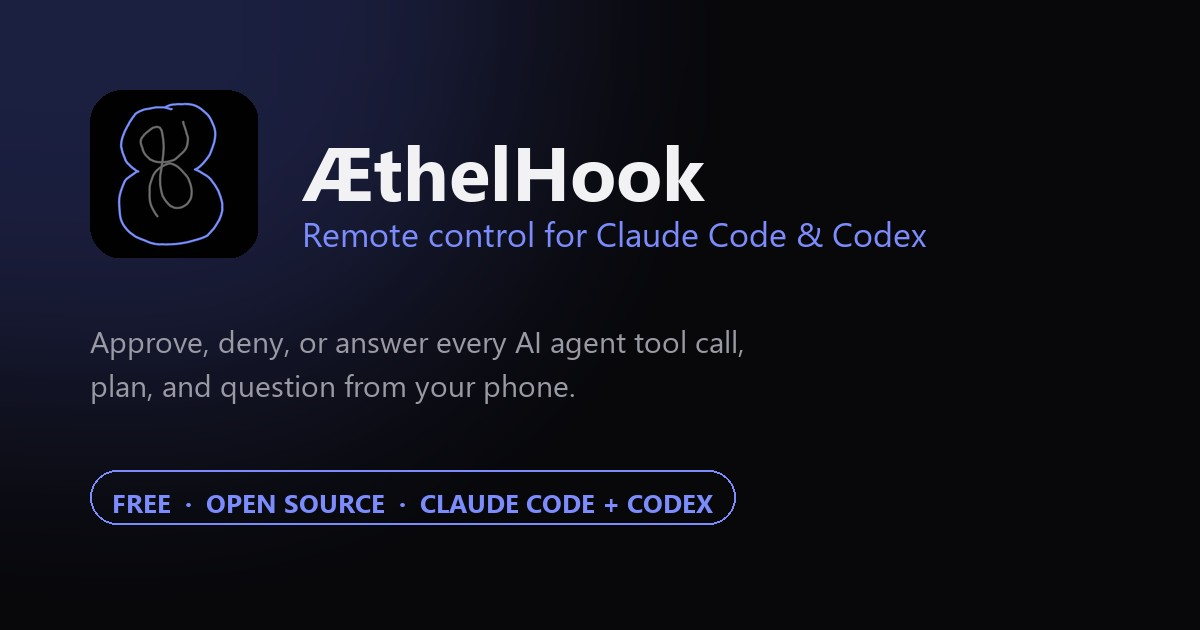
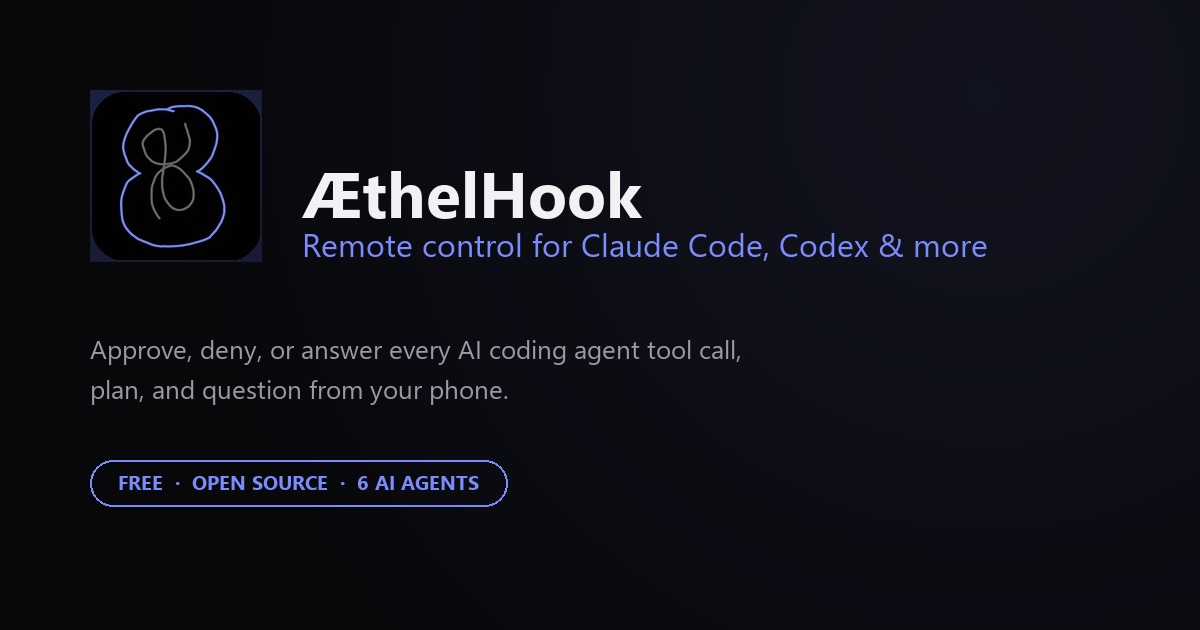
Cover Gemini CLI, GitHub Copilot CLI, and Devin CLI on the site
AethelHook grew from 3 to 6 supported agents (Claude Code, Codex,
OpenCode, Gemini CLI, GitHub Copilot CLI, Devin CLI) since the site
was last updated. Updates the homepage (Hero, Features, Setup),
title/meta/OG/Twitter tags and the JSON-LD description, the OG image,
the Guides index, and the main setup guide - including new per-agent
subsections for Gemini CLI (npm install, folder trust) and Devin CLI
(standalone terminal CLI install and one-time interactive login,
explicitly distinguished from the Devin IDE, which has no hook
mechanism at all). Notes GitHub Copilot CLI as approval-gate only,
with no Session Access. Also fixes two stale cross-links in the two
general guides that still said "Claude Code and Codex" instead of
matching the setup guide's actual title.

The phone dashboard screenshot in the Demo section is left as-is -
it predates both this agent lineup and the floating-glass UI redesign,
so its own alt text/caption already only claims what it actually
shows (Claude Code, Codex, OpenCode toggles) rather than being
updated to overclaim.

Changed region(s): [[0.0, 0.0, 0.8325, 0.6333], [0.0617, 0.7238, 0.6167, 0.8444]]

diff --git a/src/pages/GuideApprove.jsx b/src/pages/GuideApprove.jsx
@@ -8,20 +8,21 @@ export default function GuideApprove() {
       <main>
         <article className="article">
           <p className="kicker">Guide</p>
-          <h1>How to approve Claude Code, Codex, and OpenCode from your phone</h1>
+          <h1>How to approve Claude Code, Codex, and four other AI agents from your phone</h1>
           <p className="article-lead">
             A step-by-step walkthrough of setting up remote control for Claude Code,
-            Codex, and OpenCode with ÆthelHook, so tool calls, plan reviews, and
-            questions can be answered from your phone instead of your IDE. Codex and
-            OpenCode each need one small extra step beyond the base install, covered
-            in full below.
+            Codex, OpenCode, Gemini CLI, GitHub Copilot CLI, and Devin CLI with
+            ÆthelHook, so tool calls, plan reviews, and questions can be answered from
+            your phone instead of your IDE. Most of these agents need one small extra
+            step beyond the base install, covered in full below.
           </p>
 
           <h2>What you need</h2>
           <ul>
             <li>
               A Windows PC running at least one of: Claude Code (CLI or VS Code
-              extension), Codex (CLI or IDE), or OpenCode.
+              extension), Codex (CLI or IDE), OpenCode, Gemini CLI, GitHub Copilot CLI,
+              or Devin's standalone terminal CLI.
             </li>
             <li>An Android phone.</li>
             <li>No account and no subscription, both installs are free.</li>
@@ -86,11 +87,11 @@ export default function GuideApprove() {
             tab.
           </p>
 
-          <h2>6. Extra step for Codex or OpenCode</h2>
+          <h2>6. Extra step for Codex, OpenCode, Gemini CLI, or Devin CLI</h2>
           <p>
-            Claude Code needs nothing beyond the steps above, its hooks are trusted
-            automatically. The other two agents each need one more small step
-            before ÆthelHook can see their tool calls.
+            Claude Code and GitHub Copilot CLI need nothing beyond the steps above,
+            their hooks are trusted automatically. The other four agents each need one
+            more small step before ÆthelHook can see their tool calls.
           </p>
 
           <h3>Codex: trust the hooks</h3>
@@ -132,10 +133,53 @@ export default function GuideApprove() {
             config folder to exist, not a specific install method.
           </p>
 
+          <h3>Gemini CLI: install with npm, then trust the folder</h3>
+          <p>
+            Install{' '}
+            <a href="https://nodejs.org/" target="_blank" rel="noopener noreferrer">
+              Node.js
+            </a>{' '}
+            if you do not already have it, then run:
+          </p>
+          <pre>
+            <code>npm install -g @google/gemini-cli</code>
+          </pre>
+          <p>
+            Gemini CLI refuses to run tools, and refuses to fire any hook at all, in a
+            project folder it does not trust yet, a Gemini CLI safety feature, not
+            something ÆthelHook can skip on your behalf. The first time you run{' '}
+            <code>gemini</code> interactively in a project, accept its trust prompt if
+            one appears. Session Access, ÆthelHook's phone-to-PC prompt feature, trusts
+            the folder automatically before every headless run, so this step only
+            matters for using Gemini CLI yourself in your own terminal.
+          </p>
+
+          <h3>Devin CLI: the standalone terminal CLI, not the Devin IDE</h3>
+          <p>
+            This is Cognition's separate <code>devin</code> terminal CLI, not the Devin
+            IDE (a rebranded Windsurf editor). The IDE never fires hooks at all, so
+            ÆthelHook can only gate the standalone CLI. Install it on Windows with:
+          </p>
+          <pre>
+            <code>irm https://static.devin.ai/cli/setup.ps1 | iex</code>
+          </pre>
+          <p>
+            Then, in a real terminal window, since this step reads console input
+            directly and cannot be scripted or piped, sign in once:
+          </p>
+          <pre>
+            <code>{`devin auth login
+devin setup`}</code>
+          </pre>
+          <p>
+            After that one-time login, every <code>devin</code> tool call routes to
+            your phone the same as the other agents.
+          </p>
+
           <h2>7. You are done</h2>
           <p>
             From here, every tool call, plan review, and clarifying question from
-            whichever of the three agents you use routes to your phone. You can allow
+            whichever of the six agents you use routes to your phone. You can allow
             once, always allow for that project, always allow everywhere, deny, or
             deny with a reason fed back to the agent, all from the notification.
           </p>
@@ -144,7 +188,9 @@ export default function GuideApprove() {
             Session Access, ÆthelHook's other mode, works the other direction: send a
             prompt from your phone and kick off a headless run on your PC. Useful for
             a quick fix or a forgotten follow-up task while you are away from your
-            desk.
+            desk. It works for every agent except GitHub Copilot CLI, which is
+            approval-gate only, its headless auth needs Windows Credential Manager,
+            which the background service cannot reach.
           </div>
 
           <p>

diff --git a/index.html b/index.html
@@ -3,20 +3,20 @@
 <head>
 <meta charset="UTF-8" />
 <meta name="viewport" content="width=device-width, initial-scale=1.0" />
-<title>ÆthelHook - Remote Control for Claude Code, Codex, and OpenCode</title>
-<meta name="description" content="Free, open source remote control and approval gateway for Claude Code, Codex, and OpenCode. Approve tool calls, review plans, and answer questions from your phone.">
+<title>ÆthelHook - Remote Control for Claude Code, Codex & More AI Agents</title>
+<meta name="description" content="Free, open source remote control and approval gateway for Claude Code, Codex, OpenCode, Gemini CLI, GitHub Copilot CLI, and Devin CLI. Approve tool calls, review plans, and answer questions from your phone.">
 <link rel="canonical" href="https://aethelst8.com/">
-<meta property="og:title" content="ÆthelHook - Remote Control for Claude Code, Codex, and OpenCode">
-<meta property="og:description" content="Approve, deny, or answer every AI coding agent tool call, plan, and question remotely from your phone. Free and open source.">
+<meta property="og:title" content="ÆthelHook - Remote Control for Claude Code, Codex & More AI Agents">
+<meta property="og:description" content="Approve, deny, or answer every AI coding agent tool call, plan, and question remotely from your phone. Six agents supported. Free and open source.">
 <meta property="og:type" content="website">
 <meta property="og:url" content="https://aethelst8.com">
 <meta property="og:image" content="https://aethelst8.com/og-image.jpg">
 <meta property="og:image:width" content="1200">
 <meta property="og:image:height" content="630">
-<meta property="og:image:alt" content="ÆthelHook, remote control for Claude Code, Codex, and OpenCode">
+<meta property="og:image:alt" content="ÆthelHook, remote control for Claude Code, Codex, and four other AI coding agents">
 <meta name="twitter:card" content="summary_large_image">
-<meta name="twitter:title" content="ÆthelHook - Remote Control for Claude Code, Codex, and OpenCode">
-<meta name="twitter:description" content="Approve, deny, or answer every AI coding agent tool call, plan, and question remotely from your phone. Free and open source.">
+<meta name="twitter:title" content="ÆthelHook - Remote Control for Claude Code, Codex & More AI Agents">
+<meta name="twitter:description" content="Approve, deny, or answer every AI coding agent tool call, plan, and question remotely from your phone. Six agents supported. Free and open source.">
 <meta name="twitter:image" content="https://aethelst8.com/og-image.jpg">
 <link rel="icon" type="image/png" sizes="32x32" href="/favicon-32.png">
 <link rel="apple-touch-icon" href="/apple-touch-icon.png">
@@ -26,7 +26,7 @@
   "@type": "SoftwareApplication",
   "name": "ÆthelHook",
   "alternateName": ["AethelHook", "aethelst8", "aethelstate"],
-  "description": "Free, open source remote control and approval gateway that routes Claude Code, Codex, and OpenCode AI agent tool calls, plans, and questions to your phone for approval.",
+  "description": "Free, open source remote control and approval gateway that routes Claude Code, Codex, OpenCode, Gemini CLI, GitHub Copilot CLI, and Devin CLI tool calls, plans, and questions to your phone for approval.",
   "applicationCategory": "DeveloperApplication",
   "operatingSystem": "Windows, Android",
   "offers": {

diff --git a/src/components/Features.jsx b/src/components/Features.jsx
@@ -1,7 +1,7 @@
 const FEATURES = [
   {
-    title: 'Works with three coding agents',
-    body: 'Claude Code (CLI and VS Code extension), Codex (CLI and IDE), and OpenCode. Not the regular Claude app or claude.ai, those are a different product. Codex and OpenCode need a one-time extra setup step, see the setup guide below for exact instructions.',
+    title: 'Works with six coding agents',
+    body: "Claude Code (CLI and VS Code extension), Codex (CLI and IDE), OpenCode, Gemini CLI, GitHub Copilot CLI, and Devin's standalone terminal CLI (not the Devin IDE, which has no hook mechanism at all). Not the regular Claude app or claude.ai, those are a different product. Most of these need a one-time extra setup step, see the setup guide below for exact instructions per agent.",
   },
   {
     title: 'Real time, end to end encrypted',
@@ -17,7 +17,7 @@ const FEATURES = [
   },
   {
     title: 'Session Access',
-    body: 'Remote control your agent: send a prompt from your phone, by typing or by voice, and kick off a headless run on your PC. Each project keeps its own resumable conversation, with a live context-usage gauge per agent.',
+    body: 'Remote control your agent: send a prompt from your phone, by typing or by voice, and kick off a headless run on your PC. Each project keeps its own resumable conversation, with a live context-usage gauge per agent. Works for every agent except GitHub Copilot CLI, which is approval-gate only.',
   },
   {
     title: 'Secure by default',
@@ -46,7 +46,7 @@ export default function Features() {
     <section id="features">
       <div className="wrap">
         <h2>What it does</h2>
-        <p className="section-lead">Remote control and approval for three coding agents, one gateway, and a phone in your pocket.</p>
+        <p className="section-lead">Remote control and approval for six coding agents, one gateway, and a phone in your pocket.</p>
         <div className="grid">
           {FEATURES.map((f) => (
             <div className="card" key={f.title}>

diff --git a/src/components/Hero.jsx b/src/components/Hero.jsx
@@ -3,12 +3,12 @@ export default function Hero() {
     <section className="hero" id="top">
       <div className="wrap">
         <span className="badge">Free and open source</span>
-        <p className="eyebrow">Remote control for Claude Code, Codex, and OpenCode</p>
+        <p className="eyebrow">Remote control for six AI coding agents, from Claude Code to Devin CLI</p>
         <h1>Your AI coding agent can run any command it wants, right now.</h1>
         <p className="lead">
           One click through a permission dialog you stopped reading, and it just did
           something you did not mean to allow. ÆthelHook gives you remote control over
-          three different coding agents, routing every risky action to your phone first.
+          six different coding agents, routing every risky action to your phone first.
           You decide, not a popup you clicked past.
         </p>
         <div className="cta-row">
@@ -16,8 +16,9 @@ export default function Hero() {
         </div>
         <p className="fine-print">Windows PC and Android phone required. No account, no subscription.</p>
         <p className="fine-print">
-          Works with Claude Code (CLI and VS Code extension), Codex (CLI and IDE), and
-          OpenCode. Not the Claude app or claude.ai.
+          Works with Claude Code (CLI and VS Code extension), Codex (CLI and IDE),
+          OpenCode, Gemini CLI, GitHub Copilot CLI, and Devin's standalone terminal CLI.
+          Not the regular Claude app or claude.ai.
         </p>
       </div>
     </section>

diff --git a/src/pages/GuideSafety.jsx b/src/pages/GuideSafety.jsx
@@ -116,10 +116,10 @@ export default function GuideSafety() {
 
           <h2>Where ÆthelHook fits</h2>
           <p>
-            ÆthelHook is a free, open source gateway that routes every Claude Code
-            and Codex tool call, plan review, and clarifying question to your phone
-            for a decision, over an end-to-end encrypted connection, with no cloud
-            relay in the middle. It does not replace the safeguards above, it adds
+            ÆthelHook is a free, open source gateway that routes every tool call,
+            plan review, and clarifying question, across six agents including
+            Claude Code and Codex, to your phone for a decision, over an end-to-end
+            encrypted connection, with no cloud relay in the middle. It does not replace the safeguards above, it adds
             the one thing they cannot: a decision made away from the screen you were
             already on autopilot with. The gate itself is guarded too, pairing a new
             phone requires Windows Hello on the PC, so the second device the decision
@@ -140,7 +140,7 @@ export default function GuideSafety() {
               </li>
               <li>
                 <a href="/guides/approve-claude-code-and-codex-from-your-phone/">
-                  How to approve Claude Code and Codex from your phone
+                  How to approve Claude Code, Codex, and four other AI agents from your phone
                 </a>
               </li>
             </ul>

diff --git a/src/components/Setup.jsx b/src/components/Setup.jsx
@@ -47,7 +47,7 @@ const STEPS = [
   },
   {
     title: 'You are done',
-    body: 'From now on, tool calls, plan reviews, and clarifying questions from Claude Code, Codex, or OpenCode are routed to your phone for a decision.',
+    body: 'From now on, tool calls, plan reviews, and clarifying questions from whichever of the six supported agents you use are routed to your phone for a decision.',
   },
 ]
 
@@ -69,9 +69,10 @@ export default function Setup() {
           ))}
         </ol>
         <div className="warn warn-info requirements-note">
-          <strong>Codex and OpenCode each need one extra one-time step</strong>{' '}
-          beyond what is listed above, Codex needs its hooks trusted, and OpenCode
-          needs Node.js. See the{' '}
+          <strong>Most agents need one extra one-time step</strong>{' '}
+          beyond what is listed above: Claude Code needs nothing extra, but Codex needs
+          its hooks trusted, OpenCode and Gemini CLI need Node.js, and Devin CLI needs a
+          one-time interactive login in its standalone terminal CLI. See the{' '}
           <a href="/guides/approve-claude-code-and-codex-from-your-phone/">full setup guide</a>{' '}
           for exact instructions for each.
         </div>

diff --git a/src/pages/GuideHooks.jsx b/src/pages/GuideHooks.jsx
@@ -152,9 +152,10 @@ export default function GuideHooks() {
           <h2>Where ÆthelHook fits</h2>
           <p>
             ÆthelHook is a working example of exactly this pattern: a{' '}
-            <code>PreToolUse</code> hook that forwards the tool call to a phone over
-            an encrypted connection, blocks, and returns whatever decision comes
-            back, for both Claude Code and Codex.
+            <code>PreToolUse</code>-equivalent hook that forwards the tool call to a
+            phone over an encrypted connection, blocks, and returns whatever decision
+            comes back, across six different coding agents including Claude Code and
+            Codex.
           </p>
           <p>
             <a href="/">See how it works and download it</a>.
@@ -170,7 +171,7 @@ export default function GuideHooks() {
               </li>
               <li>
                 <a href="/guides/approve-claude-code-and-codex-from-your-phone/">
-                  How to approve Claude Code and Codex from your phone
+                  How to approve Claude Code, Codex, and four other AI agents from your phone
                 </a>
               </li>
             </ul>

diff --git a/src/pages/GuidesIndex.jsx b/src/pages/GuidesIndex.jsx
@@ -9,8 +9,8 @@ const GUIDES = [
   },
   {
     href: '/guides/approve-claude-code-and-codex-from-your-phone/',
-    title: 'How to approve Claude Code, Codex, and OpenCode from your phone',
-    body: 'A step-by-step walkthrough of pairing ÆthelHook and answering approvals, plan reviews, and questions remotely, including the extra setup step Codex and OpenCode each need.',
+    title: 'How to approve Claude Code, Codex, and four other AI agents from your phone',
+    body: 'A step-by-step walkthrough of pairing ÆthelHook and answering approvals, plan reviews, and questions remotely, including the extra setup step most of the six supported agents need.',
   },
   {
     href: '/guides/claude-code-hooks-explained/',
@@ -28,7 +28,7 @@ export default function GuidesIndex() {
           <div className="wrap">
             <h1>Guides</h1>
             <p className="section-lead">
-              Notes on AI agent safety, Claude Code, Codex, OpenCode, and how ÆthelHook is built.
+              Notes on AI agent safety, the coding agents ÆthelHook supports, and how ÆthelHook is built.
             </p>
           </div>
         </section>
